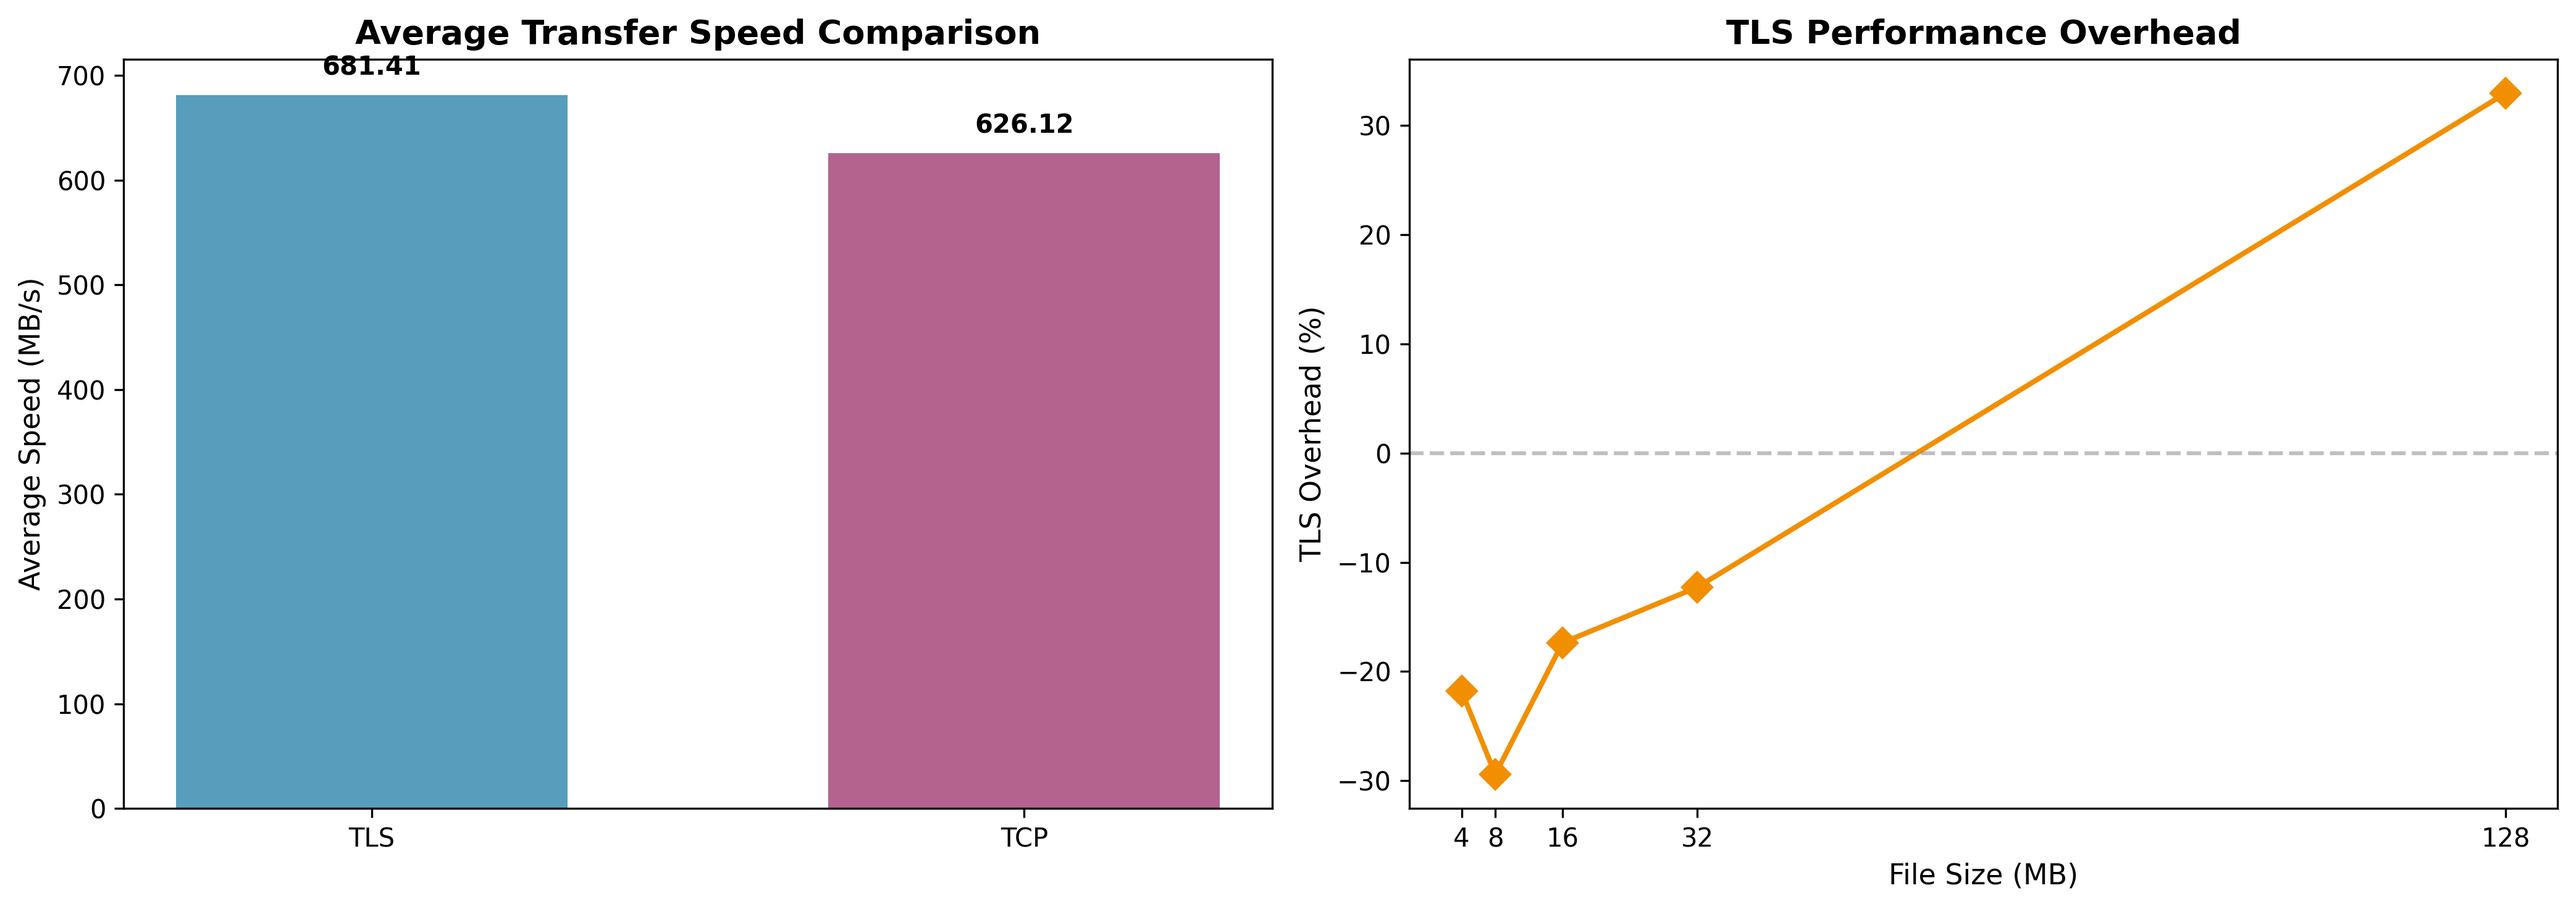
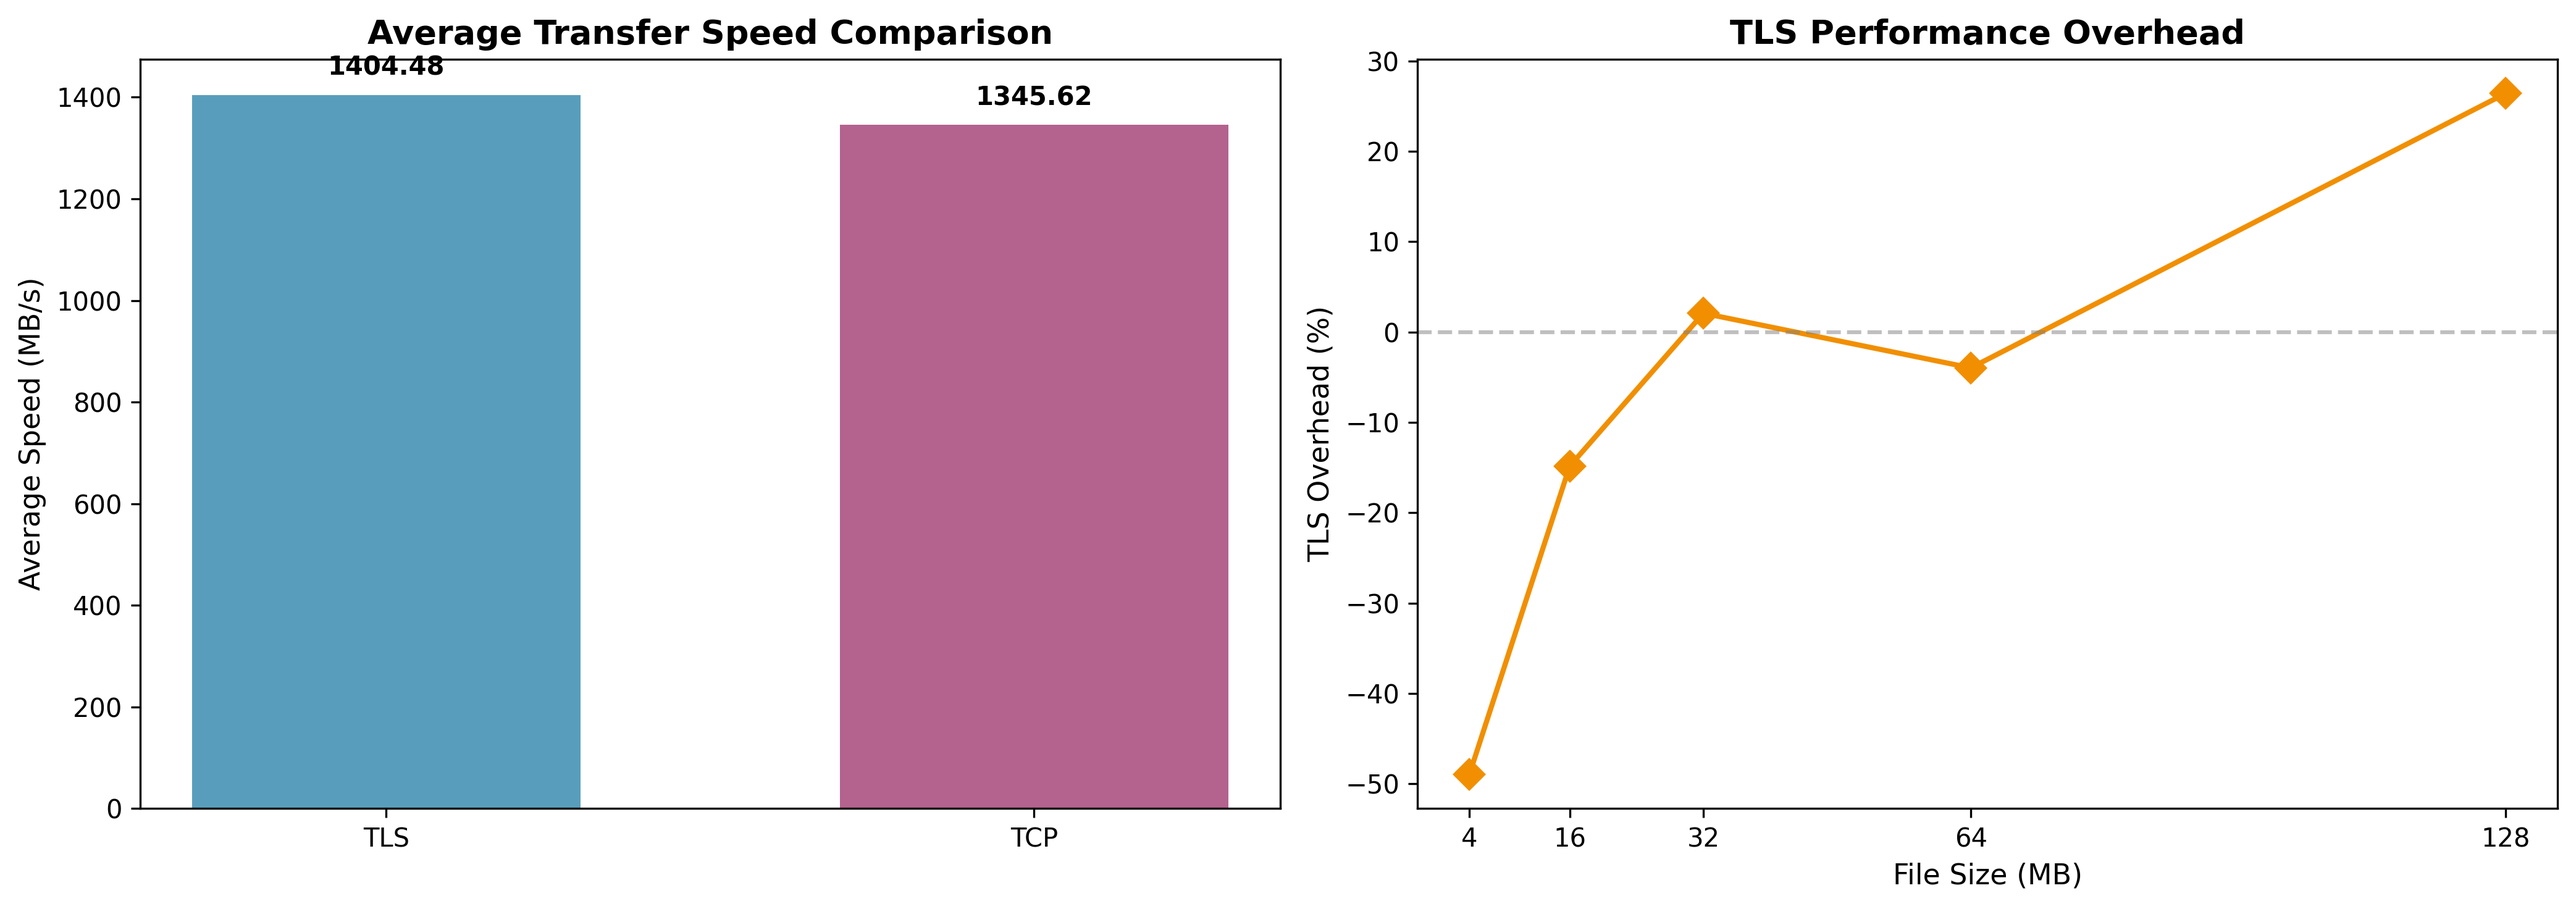
Fix: Ajuste no client e no server

diff --git a/src/run_performance_tests.py b/src/run_performance_tests.py
@@ -1,20 +1,13 @@
 # File to run performance tests by sending files of various sizes to the server and generating performance graphs
 import os
 from client import Client
-from server import Server
-from graph_data import load_performance_data, analyze_performance, create_graph
+from graph_data import load_performance_data, create_graph
+from graph_data import analyze_performance as ap
 from generate_server_key import generate_self_signed_cert
-import threading
 import time
-
 
 PORT = 65432
 TOTAL_TESTS = 5
-
-def start_server(use_tls, port):
-    # Start the server in a separate thread
-    server_thread = threading.Thread(target=lambda: Server('localhost', port, use_tls).start(), daemon=True)
-    server_thread.start()
 
 def run_client(file_path, use_tls, port):
     client = Client('localhost', port, use_tls)
@@ -23,19 +16,13 @@ def run_client(file_path, use_tls, port):
 
 def generate_test_files():
     from generate_file import generate_random_file
-    sizes = [2 * 1024 * 1024, 4 * 1024 * 1024, 8 * 1024 * 1024, 16 * 1024 * 1024, 64 * 1024 * 1024]  # Sizes in bytes
+    sizes = [2 * 1024 * 1024, 8 * 1024 * 1024, 16 * 1024 * 1024, 32 * 1024 * 1024, 64 * 1024 * 1024]  # Sizes in bytes
     for size in sizes:
         filename = f"{size // (1024 * 1024)}mb_random_file.bin"
         generate_random_file(filename, size)
 
 def run_performance_tests(use_tls, port):
-    test_files = [
-        '2mb_random_file.bin',
-        '4mb_random_file.bin',
-        '8mb_random_file.bin',
-        '16mb_random_file.bin',
-        '64mb_random_file.bin'
-    ]
+    test_files = [f"{size}mb_random_file.bin" for size in [2, 8, 16, 32, 64]]
     # Run clients to send files
     for file in test_files:
         print(f"Sending file: {file}")
@@ -47,11 +34,12 @@ def run_performance_tests(use_tls, port):
 
 def analyze_performance():
     performance_data = load_performance_data('client_performance.log')
+    ap(performance_data)
     create_graph(performance_data)
     print("Performance tests completed.")
 
 if __name__ == "__main__":
-    if not all(os.path.exists(f"{size}mb_random_file.bin") for size in [2, 4, 8, 16, 64]):
+    if not all(os.path.exists(f"{size}mb_random_file.bin") for size in [2, 8, 16, 32, 64]):
         print("Generating test files...")
         generate_test_files()
 
@@ -62,12 +50,6 @@ if __name__ == "__main__":
     print("Generating self-signed certificate and key for TLS...")
     generate_self_signed_cert()
 
-    print(f"\n{'='*60}")
-    print(f"Starting servers...")
-    start_server(use_tls=False, port=PORT)
-    start_server(use_tls=True, port=PORT + 1)
-    print(f"{'='*60}")
-    
     print(f"\n{'='*60}")
     print(f"Running {TOTAL_TESTS} tests...")
     print(f"{'='*60}")

diff --git a/src/generate_file.py b/src/generate_file.py
@@ -10,8 +10,10 @@ def generate_file(filename, content):
 
 def generate_random_file(filename, size_in_bytes):
     try:
-        generate_file(filename, os.urandom(size_in_bytes).hex())
-        print(f"Random file '{filename}' of size {size_in_bytes} bytes generated successfully.")
+        # Generate random bytes and write to file, blocks of 128 bytes per line
+        with open(filename, 'wb') as f:
+            generate_file(filename, os.urandom(size_in_bytes).hex())
+            print(f"Random file '{filename}' of size {size_in_bytes} bytes generated successfully.")
     except IOError as e:
         print(f"Failed to generate random file '{filename}': {e}")
 
@@ -25,10 +27,11 @@ def generate_pattern_file(filename, pattern, repetitions):
         print(f"Failed to generate pattern file '{filename}': {e}")
 
 if __name__ == "__main__":
-    # generate_pattern_file('test_file.txt', 'Hello World!', 2000)
+    generate_pattern_file('test_file.txt', 'Hello World!', 2000)
     generate_random_file('2mb_random_file.bin', 2 * 1024 * 1024)  # 2 MB random file
-    generate_random_file('4mb_random_file.bin', 4 * 1024 * 1024)  # 4 MB random file
+    generate_random_file('8mb_random_file.bin', 8 * 1024 * 1024)  # 8 MB random file
     generate_random_file('16mb_random_file.bin', 16 * 1024 * 1024)  # 16 MB random file
+    generate_random_file('32mb_random_file.bin', 32 * 1024 * 1024)  # 32 MB random file
     generate_random_file('64mb_random_file.bin', 64 * 1024 * 1024)  # 64 MB random file
-    generate_random_file('128mb_random_file.bin', 128 * 1024 * 1024)  # 128 MB random file
+
 

diff --git a/src/server.py b/src/server.py
@@ -23,7 +23,6 @@ class Server:
         os.makedirs(FILE_SAVE_PATH, exist_ok=True) # Ensure the directory for saving files exists
         
         server_socket = socket.socket(socket.AF_INET, socket.SOCK_STREAM)
-        server_socket.setsockopt(socket.SOL_SOCKET, socket.SO_REUSEADDR, 1)  # Allow port reuse
         server_socket.bind((self.host, self.port))
         server_socket.listen(5) # Allow up to 5 queued connections
 
@@ -80,8 +79,9 @@ class Server:
             duration = end_time - start_time
 
             if total_data_received > 0:
-                timestamp = datetime.now().strftime("%Y%m%d_%H%M%S")
-                self.save_received_file(data, f"received_from_{addr[0]}_{addr[1]}_{timestamp}.bin")
+                print(f"Received {total_data_received} bytes from {addr} in {duration:.6f} seconds.")
+                #timestamp = datetime.now().strftime("%Y%m%d_%H%M%S")
+                #self.save_received_file(data, f"received_from_{addr[0]}_{addr[1]}_{timestamp}.bin")
             
             # Send acknowledgment
             try:
@@ -112,3 +112,4 @@ if __name__ == "__main__":
 
     server = Server(HOST, args.port, args.tls)
     server.start()
+    

diff --git a/src/graph_data.py b/src/graph_data.py
@@ -30,8 +30,26 @@ def analyze_performance(data):
         average_speed_mbps=pd.NamedAgg(column='speed_mbps', aggfunc='mean')
     ).reset_index()
 
-    print("\nPerformance Summary:")
+    print("\n" + "="*60)
+    print("Performance Summary:")
+    print("="*60)
     print(summary)
+    
+    # Calculate TLS overhead
+    if 'TLS' in summary['connection_type'].values and 'TCP' in summary['connection_type'].values:
+        tls_speed = summary[summary['connection_type'] == 'TLS']['average_speed_mbps'].values[0]
+        tcp_speed = summary[summary['connection_type'] == 'TCP']['average_speed_mbps'].values[0]
+        
+        overhead_pct = ((tcp_speed - tls_speed) / tcp_speed) * 100
+        
+        print("\n" + "="*60)
+        print("TLS Performance Impact:")
+        print("="*60)
+        print(f"TCP Average Speed:  {tcp_speed:.2f} MB/s")
+        print(f"TLS Average Speed:  {tls_speed:.2f} MB/s")
+        print(f"Speed Difference:   {tcp_speed - tls_speed:.2f} MB/s")
+        print(f"TLS Overhead:       {overhead_pct:.2f}%")
+        print("="*60)
     print()
 
 def create_graph(data):

diff --git a/src/client.py b/src/client.py
@@ -64,16 +64,18 @@ class Client:
             with open(file_path, 'rb') as file:
                 data = file.read()
                 data_size = len(data)
-                start_time = time.time()
                 
-                # Send file size first, then data
+                # Send file size header
                 size_header = data_size.to_bytes(8, byteorder='big')
                 self.sock.sendall(size_header)
-                self.sock.sendall(data)
                 
-                # Wait for acknowledgment
-                ack = self.sock.recv(1024)
+                # Measure only the data transfer time (not ACK reception)
+                start_time = time.time()
+                self.sock.sendall(data)
                 end_time = time.time()
+                
+                # Wait for acknowledgment (but don't include in timing)
+                ack = self.sock.recv(1024)
                 
                 if ack:
                     ack_decoded = ack.decode('utf-8')
